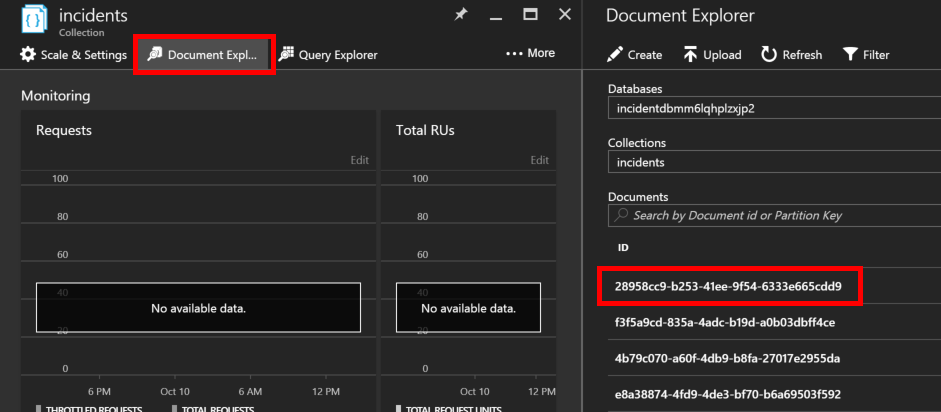
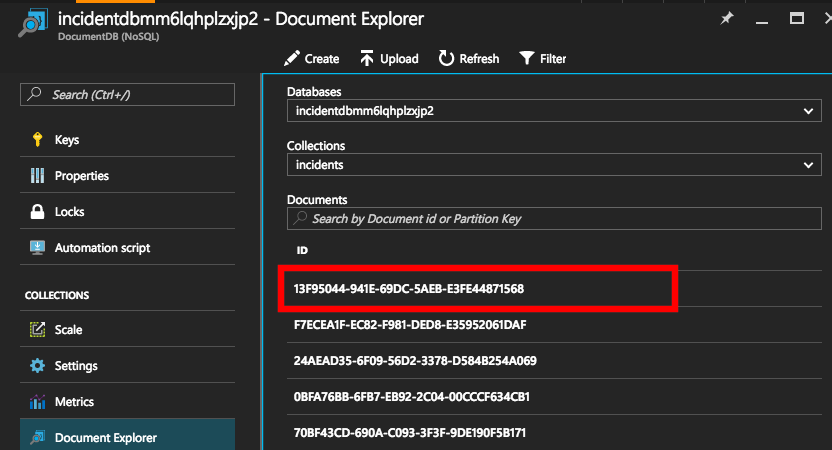
Adjusted images

diff --git a/HOL/node/02-modern-cloud-apps/README.md b/HOL/node/02-modern-cloud-apps/README.md
@@ -86,11 +86,11 @@ This hands-on-lab has the following exercises:
 
     ![image](./media/image-010.png)
 
-    Select the one database, and then select the **incidents** collection.
-    
+    In the left hand navigation, select **Document Explorer**
+
     ![image](./media/image-011.png)
 
-    In the Collection blade, select **Document Explorer** from the top toolbar.
+    After the documents load, select the first entry
 
     ![image](./media/image-012.png)
 
